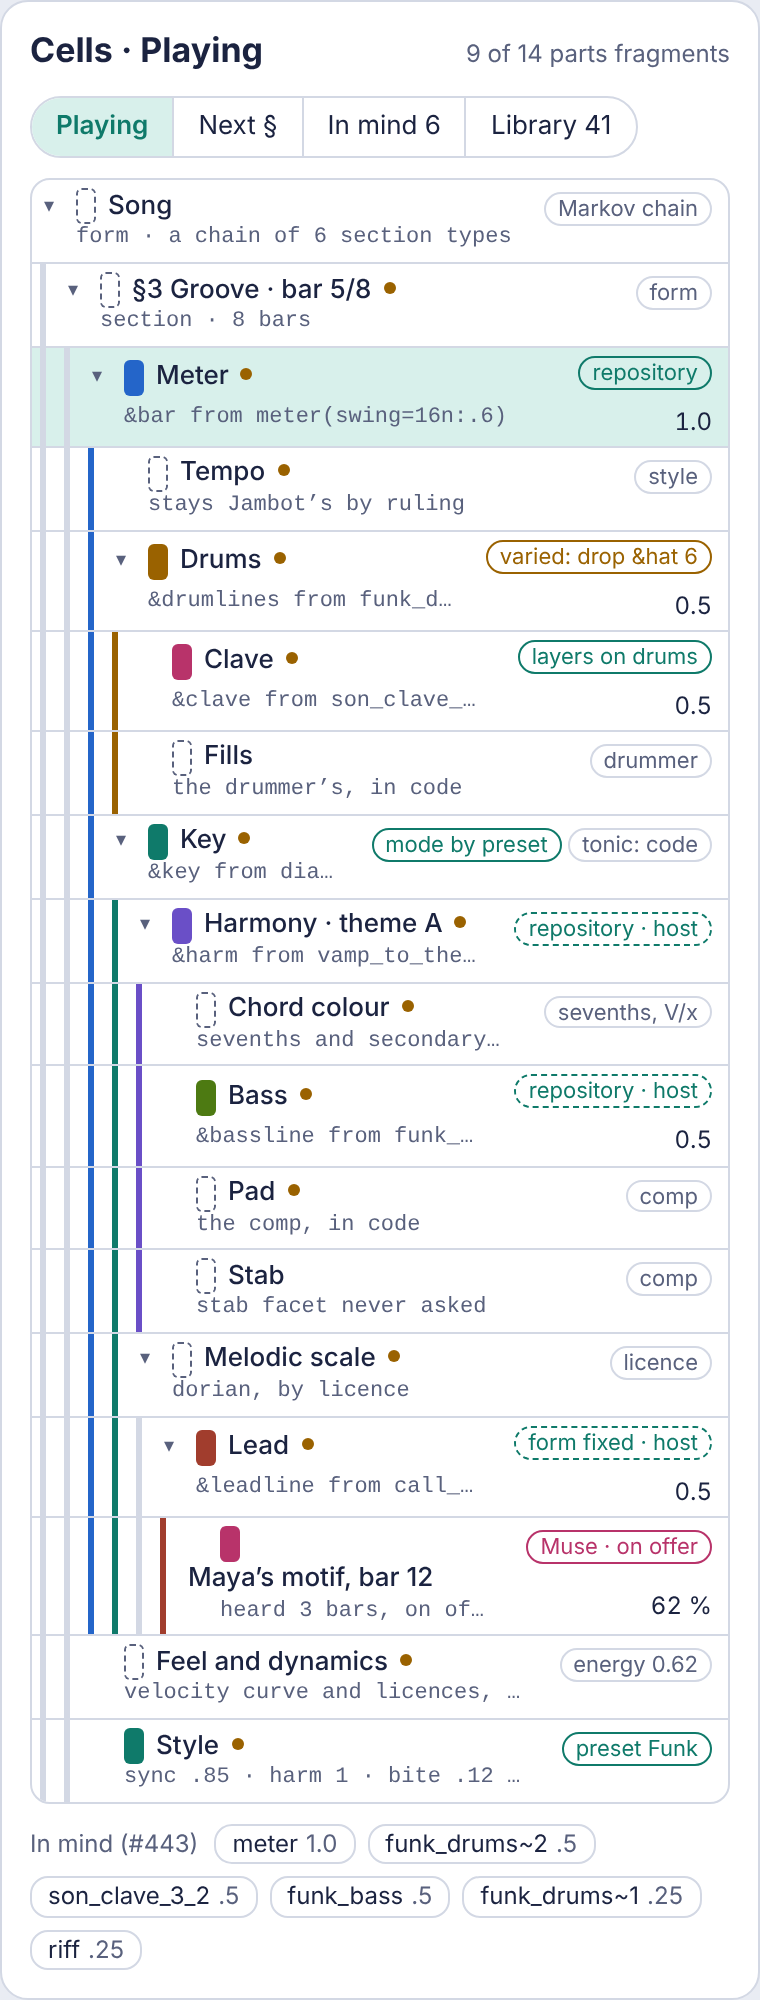
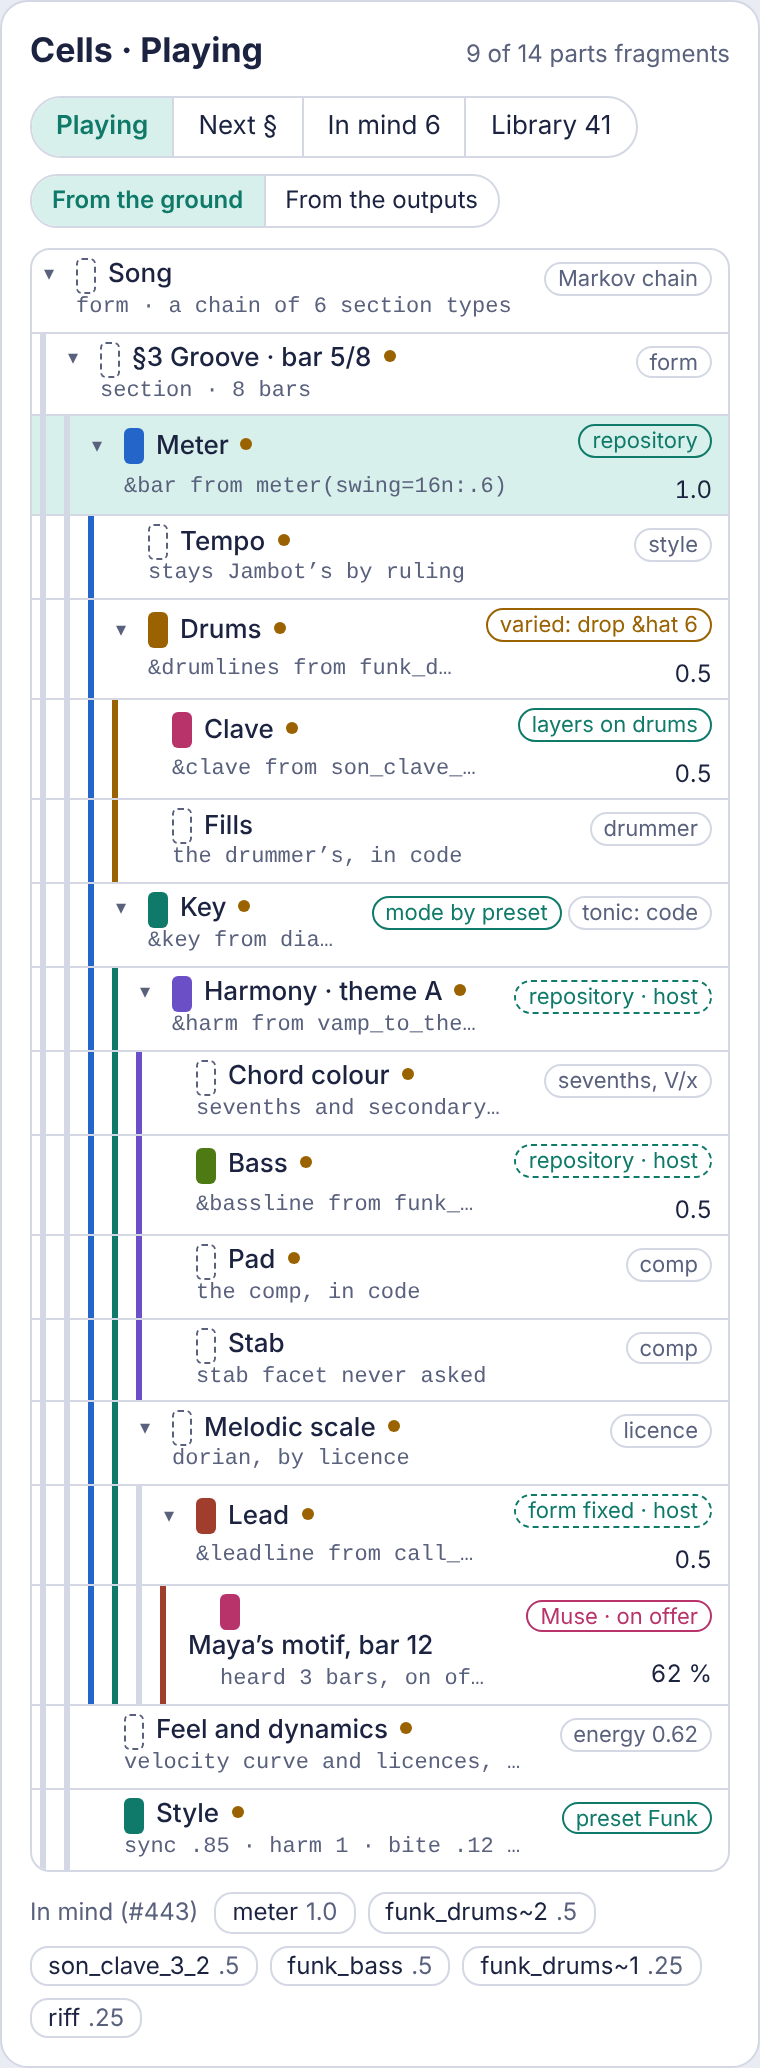
Plan the Cells view on the score: cells' outline (yggi/cells#695) over #531 and #553, the issues for what is still code
The owner's reply goes into the brief: the shallow tree from the ground,
switchable to the outputs, and #531 and #553 pushed rather than built
around. What lives in cells and what stays Jambot's; the survey's gaps
point at #643 to #646; the mock gains the switch.

Claude-Session: https://claude.ai/code/session_01Whua2MxTwbY9qyJ9jTrBiZ

diff --git a/docs/briefs/cells-view/tree.html b/docs/briefs/cells-view/tree.html
@@ -29,6 +29,8 @@ p.lede { margin:0 0 16px; color:var(--muted); max-width:80ch; }
 .seg { display:flex; border:1px solid var(--line); border-radius:19px; overflow:hidden; width:max-content; max-width:100%; }
 .seg span { padding:6px 12px; font-size:13px; border-right:1px solid var(--line); white-space:nowrap; }
 .seg span:last-child { border-right:0; }
+.tabs { display:flex; flex-wrap:wrap; gap:8px; align-items:center; }
+.seg.small span { padding:4px 10px; font-size:12px; }
 .seg span.on { background:var(--teal-bg); color:var(--teal); font-weight:600; }
 .legend { display:flex; flex-wrap:wrap; gap:6px 12px; font-size:11px; color:var(--muted); }
 .legend i { display:inline-block; width:10px; height:10px; border-radius:3px; margin-right:4px; vertical-align:-1px; }
@@ -141,7 +143,8 @@ const legend = `<div class="legend"><span><i style="background:var(--source-3)">
   <span><i style="background:var(--amber)"></i>drums</span><span><i style="background:var(--source-2)"></i>clave, a player</span>
   <span><i style="background:var(--source-1)"></i>harmony</span><span><i style="background:var(--source-4)"></i>bass</span>
   <span><i style="background:var(--source-5)"></i>lead</span><span><i class="code"></i>still code</span></div>`;
-const seg = `<div class="seg"><span class="on">Playing</span><span>Next §</span><span>In mind 6</span><span>Library 41</span></div>`;
+const seg = `<div class="tabs"><div class="seg"><span class="on">Playing</span><span>Next §</span><span>In mind 6</span><span>Library 41</span></div>
+  <div class="seg small" aria-label="Tree from"><span class="on">From the ground</span><span>From the outputs</span></div></div>`;
 const mind = `<div class="mind"><span class="lab">In mind (#443)</span><span class="m">meter<i>1.0</i></span><span class="m">funk_drums~2<i>.5</i></span>
   <span class="m">son_clave_3_2<i>.5</i></span><span class="m">funk_bass<i>.5</i></span><span class="m">funk_drums~1<i>.25</i></span><span class="m">riff<i>.25</i></span></div>`;
 const detail = `<section class="detail"><h3>Meter</h3><pre>&amp;bar from meter(swing=16n:.6) &amp;tempo</pre>

diff --git a/docs/briefs/cells-view.md b/docs/briefs/cells-view.md
@@ -9,6 +9,16 @@
 >
 > investigate first, this is part ui/ux work, part survey along the main epic.
 
+And on the first draft of this brief:
+
+> attach cells, check how much of this can live as a general mechanism in the language repo itself
+>
+> I think the shallow form is right for the jambot cells-view, maybe switchable to the other, out-based one.
+>
+> we should push for 531 and 553, not build around them
+>
+> revise the plan and file issues, then open a pr
+
 ## The mock
 
 The mock is [`cells-view/tree.html`](cells-view/tree.html), one HTML file with no dependencies, in the app's tokens, light and dark; `?only=wide` and `?only=phone` show one frame each, `?theme=dark` forces the dark theme.
@@ -21,7 +31,9 @@ What it shows:
 - **Playing is the default.** The section heard, as a tree with one block to a row, each part nested in the part it is taken on. The rows stay in step with the section, as the Retrieved log is today.
 - **The nesting is the workbench's order.** The composer fills an empty workbench by asking for every part, the meter first (yggi/cells decision 043). So the meter holds the drums (only rhythms that fit it rank, `fitsAs`) and the key. The drums hold the clave that layers on them. The key holds the harmony (`&harm from … &key`). The harmony holds the bass (`&bassline from … &harm`) and the comp. The melodic scale holds the lead, and the lead holds the motif a player offers it.
   A block's rail is the colour of the block it nests in, so it reads as a Scratch C-block holding what it takes.
-- **A block is a fragment or says why it isn't.** A solid chip is a cells fragment, and the Fragment column shows its `from` line as cells writes it. A dashed chip is a part the band still decides in code. Its file is named, beside the issue that makes it a fragment, or a dashed amber chip where no issue exists yet (proposed below).
+- **A block is a fragment or says why it isn't.** A solid chip is a cells fragment, and the Fragment column shows its `from` line as cells writes it.
+  A dashed chip is a part the band still decides in code. The mock names its file and the issue that makes it a fragment, which is the survey's view; in the app, such a part is one the score writes out, and the view shows it as written.
+- **The tree runs from the ground by default, and a switch flips it to the outputs.** From the ground, a part sits under what it is taken on, and performers and instruments are a column, so the tree stays shallow. From the outputs, each performer holds the line it plays, and the line holds what it reads.
 - **The columns:**
   - what the fragment plays on (its performer and instrument);
   - how it came: found in the repository, a variation and how (`drop &hat 6`), layered, a player's via the Muse, invented on a miss, asked for, or code;
@@ -46,64 +58,78 @@ It feeds #624, the inventory by part, but not that issue's numbers (the share of
 | Section length | `form.ts` `SECTION_BARS` = 8 | no | – | #633 |
 | Meter and swing | `meter-query.ts` `composedMeter` | yes, `Plan.meterFragment`, `Plan.share` | yes | #444 (distance) |
 | Tempo | the style's `bpm`, `tempo.ts` | no, by ruling (D6) | as bpm | #617 |
-| Mode | `mode-repository.ts` `presetMode`, at a preset's choice only | yes, but its id is dropped | no | none for the id |
+| Mode | `mode-repository.ts` `presetMode`, at a preset's choice only | yes, but its id is dropped | no | #531 (asked) |
 | Tonic and key moves | `plan.ts` `bandWish`, `key.ts` `nextKey` | no | as the key | #233, cells#647 |
-| Melodic scale | `licence.ts` | no | as its name | none |
+| Melodic scale | `licence.ts` | no | as its name | #644 |
 | Progression (theme) | `harmony-query.ts` `composedHarmony`; on a miss `themes.ts` | yes, `PlanCarried.themeFragments` | no, host only | #425 |
 | Chord colour (sevenths, V/x) | `chords.ts` `barChords` | no | as chords | #425 (in part) |
 | Drums | `rhythm-query.ts` `composedRhythm`, the ladder in `plan.ts` `climbed`; on a miss `drums.ts` | yes, `Plan.rhythmFragment` | yes | #634, #615, #632 |
 | Clave | chosen with the drums (`LAYER_DISTANCE`) | yes, `Plan.claveFragment` | yes | #439 |
-| Fills | `drums.ts`, the drummer's | no | – | **none** |
+| Fills | `drums.ts`, the drummer's | no | – | #643 |
 | Kit and drum notes | `gm_kit`; `drums.ts` `DRUM_NOTES` | the kit yes, the note table no | in the section text | #615 |
-| Bass line | `bass-query.ts` `composedLine`; on a miss `bass.ts` | yes, `PlanCarried.bassFragment` | no, host only | **none for the id** |
-| Lead line | `lead-query.ts` `composedLead`; on a miss `lead.ts` | yes, `PlanCarried.leadFragment` | no, host only | #547, **none for the id** |
+| Bass line | `bass-query.ts` `composedLine`; on a miss `bass.ts` | yes, `PlanCarried.bassFragment` | no, host only | #531 (asked) |
+| Lead line | `lead-query.ts` `composedLead`; on a miss `lead.ts` | yes, `PlanCarried.leadFragment` | no, host only | #547, #531 (asked) |
 | The lead's form | `lead-lines.ts` `LEAD_FORM`, fixed to `call_and_answer` | a fragment by name, never asked for | no | #547 rung 4 |
 | Comp: pad and stab | `comp.ts` | no (cells' stab facet is never asked) | – | #541 |
 | Instruments | `instruments.ts` `instrumentsAt`, facet `instrument` | yes, `FoundInstrument.id` | only in the section text | #531 item 5 (`timbreOf`) |
 | Performers | `section-text.ts` `performerOf` | yes, by name | in the section text | #107 |
 | Feel and timing licence | `performer.ts`, `licence.ts` | no | – | #324, #107 |
-| Dynamics and energy | `dynamics.ts`, `form.ts` `barEnergy` | no | as energy | cells#571, **no Jambot twin** |
-| Ending and count-in | `ending.ts` | no | – | **none** (or #633) |
+| Dynamics and energy | `dynamics.ts`, `form.ts` `barEnergy` | no | as energy | #645, cells#571 |
+| Ending and count-in | `ending.ts` | no | – | #646 |
 | The Muse's motifs | `muse.ts` | no (her lead lines are filed) | yes, as her memory | #547 rung 6, #580 |
 | Style | cells' `STYLES` (#596) | a preset is a cells style | as its name | #597, #598 |
 | Short-term memory | `short-term.ts` | ids of fragments | no, host only | #443 |
 
-Three findings change how the view can be built:
+Three findings shape the plan:
 
-- **A client can draw the top of the tree but not the middle.** The meter, the drums and the clave ride on the plan. The progression, the bass line and the lead line are carried in `PlanCarried` and stay on the host, as do the short-term memory and the boredom. No issue asks for those ids to travel: #444 and #445 carry distances and the filed fragments, not the section's picks.
-- **The nesting is already written down, in cells.** Cells' `from` lines say what takes what (`&harm from vamp_to_the_seventh &key`, `&bassline from walking_bass &harm`), and since cells#638 `references(text)` reads a text's `from` lines without compiling it.
-  Today the band's section text, which does reach every client (protocol 14), writes its parts out note by note. Its only `from` lines are the performers. #531 (`* from band`) and #553 (the score carries the fragments a client lacks, the Muse filing by reference) move it toward writing the parts by reference.
-  Once it does, the tree is `references(sectionText)` on any device, and no id needs a field of its own on the plan.
-- **One comment is stale.** `fragmentsView.ts` says the Muse's motifs are "not cells fragments yet (#309)". #309 is closed; their issues are #547 rung 6 and #580.
+- **A client can draw the top of the tree but not the middle.** The meter, the drums and the clave ride on the plan. The progression, the bass line and the lead line are carried in `PlanCarried` and stay on the host, as do the short-term memory and the boredom.
+- **The nesting is already written down, in cells.** Cells' `from` lines say what takes what (`&harm from vamp_to_the_seventh &key`, `&bassline from walking_bass &harm`).
+  Today the band's section text, which does reach every client (protocol 14), writes its parts out note by note, and its only `from` lines are the performers.
+- **One comment was stale.** `fragmentsView.ts` said the Muse's motifs are "not cells fragments yet (#309)". #309 is closed; it now names #547 and #580.
 
-## Recommendation
+## What lives in cells
 
-Build the view's model from one record of the section's picks, `SectionFragments` (meter, drums, clave, mode, progression, bass, lead, lead form, instruments). A pure function turns it into rows with a depth, the way `fragmentRows` turns the log into rows today. The Library tab keeps `fragmentRows` as it is.
+Most of the mechanism is the language's, not Jambot's: what a score takes, from where, and how its parts read each other is the same question for Cell studio's fragments (yggi/cell-studio#621).
 
-Fill the record in two steps, so the view doesn't wait on the score:
+Cells holds already:
 
-1. **Now:** carry the progression, bass, lead and mode ids on the plan. This is a protocol bump, and a client then draws the whole tree, as the host does.
-2. **Later:** when the section text writes its parts by reference (#531, #553), read the record off `references(text)` and retire the plan's id fields.
+- `references(text)` (yggi/cells#638): each `from` line, its id, names and arguments, without compiling;
+- `catalogue()` (yggi/cells#638): each fragment's facets, signature and the ids it takes;
+- `expansion(text).takes`: what each `from` line gave the piece, what the piece overrode and its arguments;
+- `expansion(text).origins` (yggi/cells#639): each given name's chain of `{ id, line }`;
+- `writtenGraph(result)`: the program's cells and links, its depth growing outward from the roots, which is the ground-up order at the level of cells;
+- the lockfile a piece file carries (`uses:`, each id and hash), which #553 puts on the wire.
 
-Step 2 is the general form, and step 1 is the special case it removes.
-The other way is to wait for step 2 and draw a client's middle as *host* until then.
-The owner chooses between the two.
+Cells lacks one pure function, the piece's **outline**: its parts, each the head of a `from` line or a line the piece writes itself, linked by what reads what, with two projections of the same graph, from the ground and from the outputs.
+That is yggi/cells#695.
 
-## Issues
+What stays Jambot's is what only the composer knows, joined to the outline by fragment id:
 
-These already exist and the view leans on them: #443 (In mind), #444 (Dist.), #445 (the Library on a client), #624 (the inventory), #541 (the comp), #547 (the lead's form, the Muse's motifs), #633 (form), #531 and #553 (the score by reference).
+- a query's distance (#444);
+- a fragment's weight in mind and its boredom (#443);
+- how a part came: found, varied, layered, a player's via the Muse;
+- the tabs, the transport and the drawing.
 
-Proposed, not yet filed:
+## The plan
 
-- The Cells view as the band's workbench: the Playing tree by default, with Next §, In mind and Library as tabs (this brief and its mock).
-- The section's progression, bass, lead, mode and instrument ids reach the screen: on the plan, then read from the section text.
-- The drummer's fills as fragments of the drums (facet `fill`, or a line of the rhythm the drummer keeps today, `GROOVE_KEEP`).
-- The melodic scale from the key's fragment, not the licence's table.
-- Section energy and the dynamics curve as cells' intensity offset: the Jambot twin of cells#571.
-- The ending and the count-in as fragments, or a line in #633 that says they stay code.
+The view is not built around the plan's fields. It reads the score, so the work goes into the score:
+
+1. **#531 writes each part the repository found as its `from` line** (asked there): the meter, the key with its mode, the harmony, the drums, the clave, the bass and the lead, with the argument each is taken on. A part generated on a miss stays written out, and so does a line the band changes (a fill, the levels), the piece's own line winning over the fragment's.
+2. **#553 sends the lockfile:** each id and hash, and the text of each fragment a client lacks, a filed variation's among them (asked there).
+3. **yggi/cells#695 gives the outline,** in a cells release that Jambot pins.
+4. **#642 builds the view on these:** Playing by default, from the ground with a switch to the outputs; Next §, In mind (#443) and Library as tabs.
+   The Library tab and #443 don't wait on 1 to 3.
+
+The parts with no fragment get one through their own issues:
+
+- #643, the drummer's fills;
+- #644, the melodic scale;
+- #645, a section's intensity and the dynamics (the twin of yggi/cells#571);
+- #646, the ending and the count-in;
+- and, already open, #633 (form), #541 (the comp), #547 (the lead's form, the Muse's motifs), #233 and yggi/cells#647 (the tonic), #425 (the chord colour).
+  The tempo stays out of fragments by ruling (D6, #617).
 
 ## Open questions
 
-- Should the tree run from the ground up, as the mock does (the meter holds what fits on it), or in Scratch's direction, from the output down (the performer holds the line it plays)? The ground-up order is the composer's, and it keeps the tree shallow, since the performers and instruments become a column.
 - Should Next § show the section composed ahead with its differences marked, or only its picks?
 - Should the tempo, which stays out of fragments by ruling, show as a block at all, or as a figure in the section's row?

diff --git a/docs/INDEX.md b/docs/INDEX.md
@@ -47,7 +47,7 @@ A source file has no line here: its header comment says what it is, and `tooling
     - [`eternal-jam.md`](briefs/eternal-jam.md): eternal jam sessions, Jambot and Cell studio back together: the owner's brief, its reading, and the plan
     - [`mobile-ui.md`](briefs/mobile-ui.md): the band on a phone (#327): the owner's brief and reply, with the mocks (five options, then the stage chosen) and their screenshots in `briefs/mobile-ui/`
     - [`style-map.md`](briefs/style-map.md): the Style sheet as a map of music (#598, yggi/cells#536): presets as places, the style as a point with entropy as its reach, the radio's trail and the players' wishes, with the mock and its screenshots in `briefs/style-map/`
-    - [`cells-view.md`](briefs/cells-view.md): the Cells view as the composer's workbench: what the band plays as a tree of fragments, each nested in what it is taken on, a survey of which parts are fragments and which issue makes the rest one, with the mock and its screenshots in `briefs/cells-view/`
+    - [`cells-view.md`](briefs/cells-view.md): the Cells view as the composer's workbench (#642): what the band plays as a tree of fragments read off the score, a survey of which parts are fragments and which issue makes the rest one, what lives in cells (yggi/cells#695), with the mock and its screenshots in `briefs/cells-view/`
     - [`session-roles.md`](briefs/session-roles.md): the host sets, everyone else asks: roles per code, asks with feedback, the Room's log, reactions and announcements, and the protocol groundwork
 - `prototype/`: the baseline the port is oriented by
   - [`README.md`](../prototype/README.md): concept, spirit, prototype architecture, the score language, the plan for learned models, open threads
